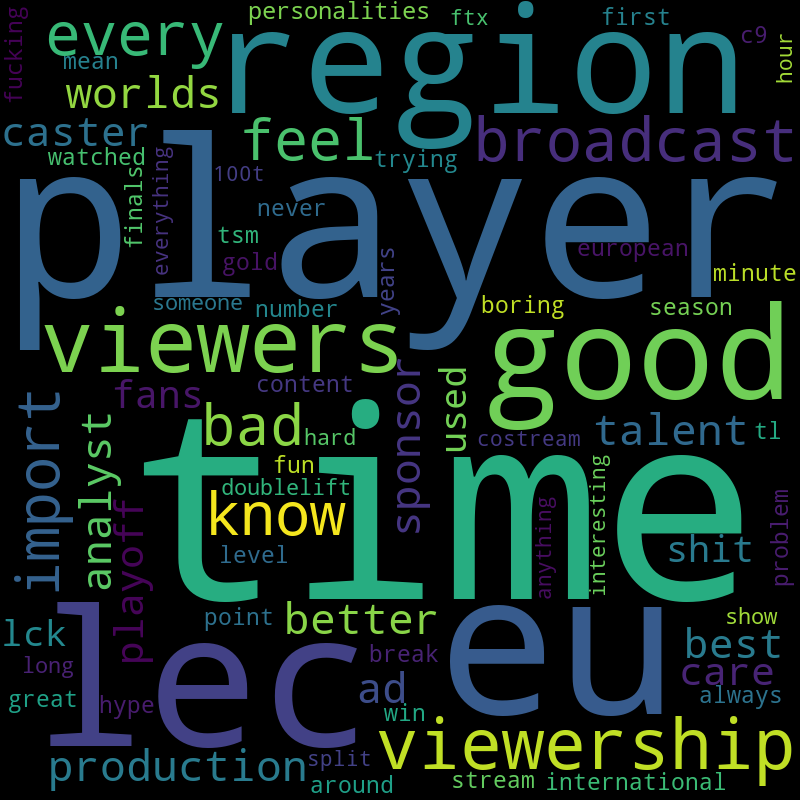
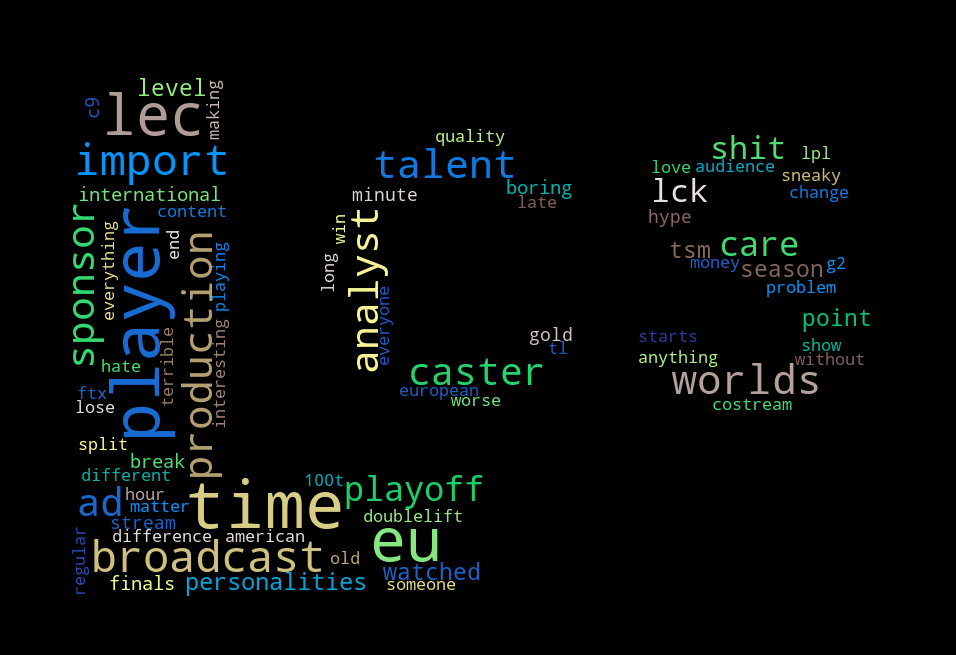
Add a mask using LCS text

diff --git a/create_wordcloud.py b/create_wordcloud.py
@@ -12,6 +12,8 @@ import re
 import nltk
 from nltk.corpus import stopwords
 
+import numpy as np
+from PIL import Image
 from wordcloud import WordCloud, STOPWORDS
 import matplotlib.pyplot as plt
 
@@ -63,7 +65,12 @@ custom_stopwords = ['really','even','think','much','still','dont','im','thing','
                     'arent','come','want','something','take','say','stuff','keep','bit','said','find','fan','viewer',
                     'year','play','lol','cant','u','big','well','right','need','least','maybe','sure','many','way',
                     'make','made','one','give','top','theyre','work','things','literally','anymore','day','back','seem',
-                    'see','less','us','last','makes','new','name','reason','pretty','final','going','vs','start']
+                    'see','less','us','last','makes','new','name','reason','pretty','final','going','vs','start',
+                    'great','bad','better','never','used','around','fun','every','trying','years','first','good',
+                    'fucking','best','viewership','viewers','feel','region','regions','hard','mean','number','fans',
+                    'put','part','gets','always','either','numbers','feels','hes','might','saying','definitely',
+                    'absolutely','getting','two','imo','know']
+
 all_stopwords = set(english_stopwords + more_stopwords + custom_stopwords)
 
 # Replace certain words that are unclean with better guess
@@ -74,6 +81,7 @@ def change_word(old_word, new_words):
 
 cleanWords = change_word('world',['worlds'])
 cleanWords = change_word('desk',['analyst','desk'])
+cleanWords = change_word('internationally',['international'])
 cleanWords = change_word('double',['doublelift'])
 cleanWords = change_word('liftlift',['doublelift'])
 cleanWords = change_word('bjergdoublelift', ['bjergsen','doublelift'])
@@ -102,13 +110,18 @@ cleanWords = change_word('capsperkzhumanoidbjergsennisqylarssenjensenpoejizuke',
 # Create single string  of all the words
 all_words = ' '.join(cleanWords)
 
+lcs_color = np.array(Image.open('images/lcs_custom.png'))
+
+
 # Create WordCloud
 wordcloud = WordCloud(width=800,
                       height=800,
                       background_color = 'black',
+                      mask = lcs_color,
                       stopwords = all_stopwords,
                       collocation_threshold = 300,
-                      min_font_size = 20)
+                      min_font_size = 15,
+                      colormap='terrain')
 cloud = wordcloud.generate(all_words)
 
 cloud_counts = wordcloud.process_text(all_words)
@@ -116,10 +129,8 @@ cloud_counts = wordcloud.process_text(all_words)
 # Plot WordCloud
 plt.figure(figsize=(10,10),
            facecolor=None)
-plt.imshow(wordcloud)
 plt.axis('off')
 plt.tight_layout(pad=0)
 plt.show()
 
 wordcloud.to_file('images/lcs_decline_cloud.png')
-
